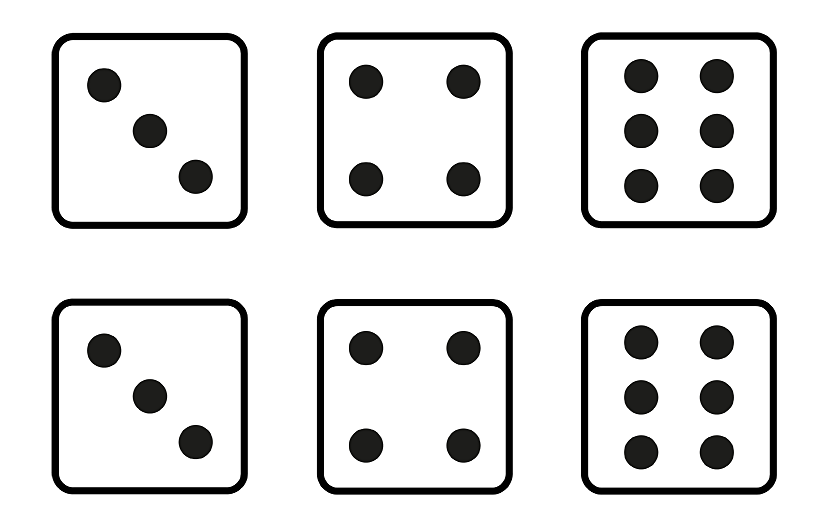
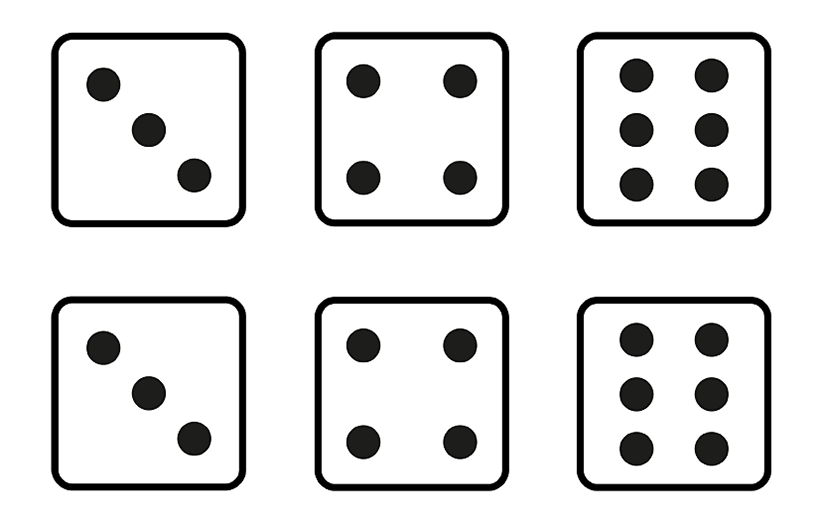
RATIO SCORE TAB

diff --git a/app/page.tsx b/app/page.tsx
@@ -2288,16 +2288,16 @@ for (let i = 0; i < 18; i++) {
               <table className="w-full border-collapse">
                 <thead>
                   <tr className="bg-green-800">
-                    <th className="w-[28%] border border-white p-3 text-left">
-                      Kombinace
+                    <th className="w-[14%] border border-white p-3 text-left">
+                    KOMBINACE
                     </th>
 
                     <th className="w-[9%] border border-white p-3 text-center">
-                      MIN
+                      min
                     </th>
 
                     <th className="w-[9%] border border-white p-3 text-center">
-                      MAX
+                      max
                     </th>
 
                     {selectedPlayers.map(
@@ -3281,8 +3281,8 @@ currentCombination && (
           >
             {playModeBonusMode ===
             "general-only"
-              ? `⭐ Bonus generál +${bonusDifference}`
-: `⭐ Bonus +${bonusDifference}`}
+              ? `Bonus generál +${bonusDifference}`
+: `Bonus +${bonusDifference}`}
           </button>
 
           <button
